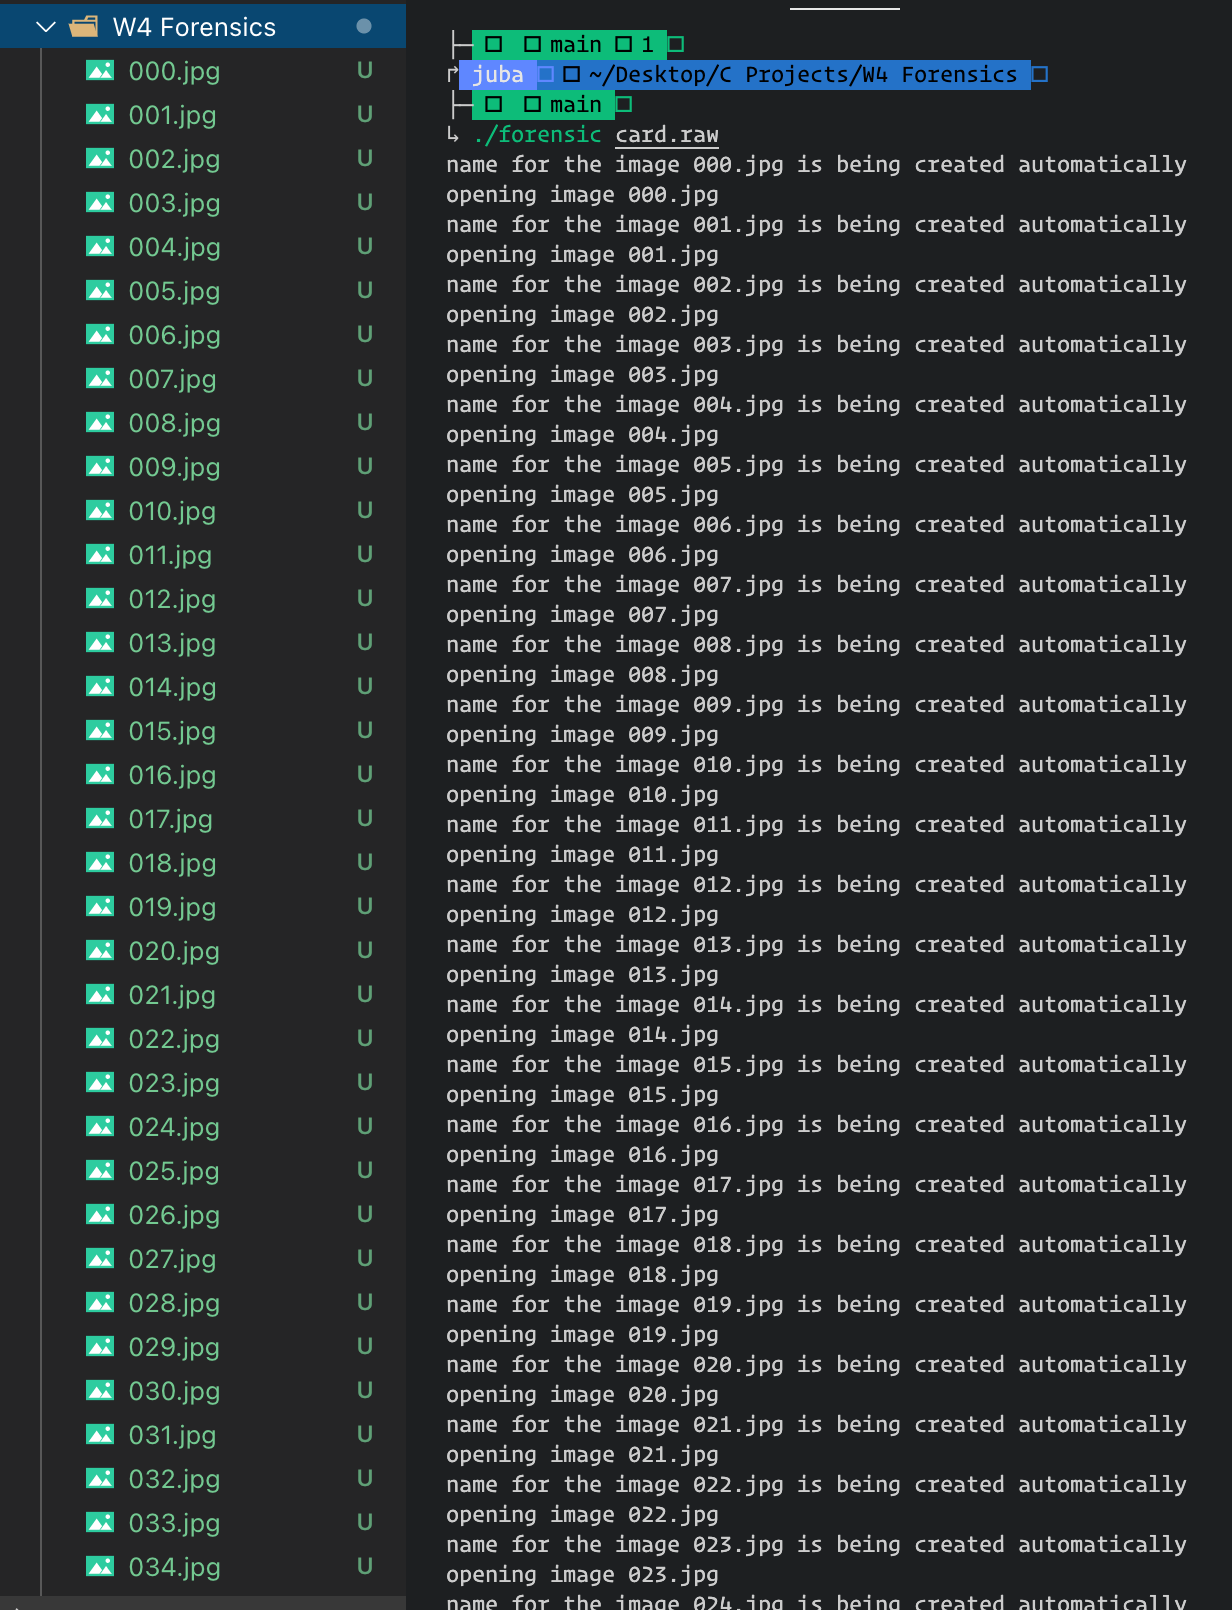
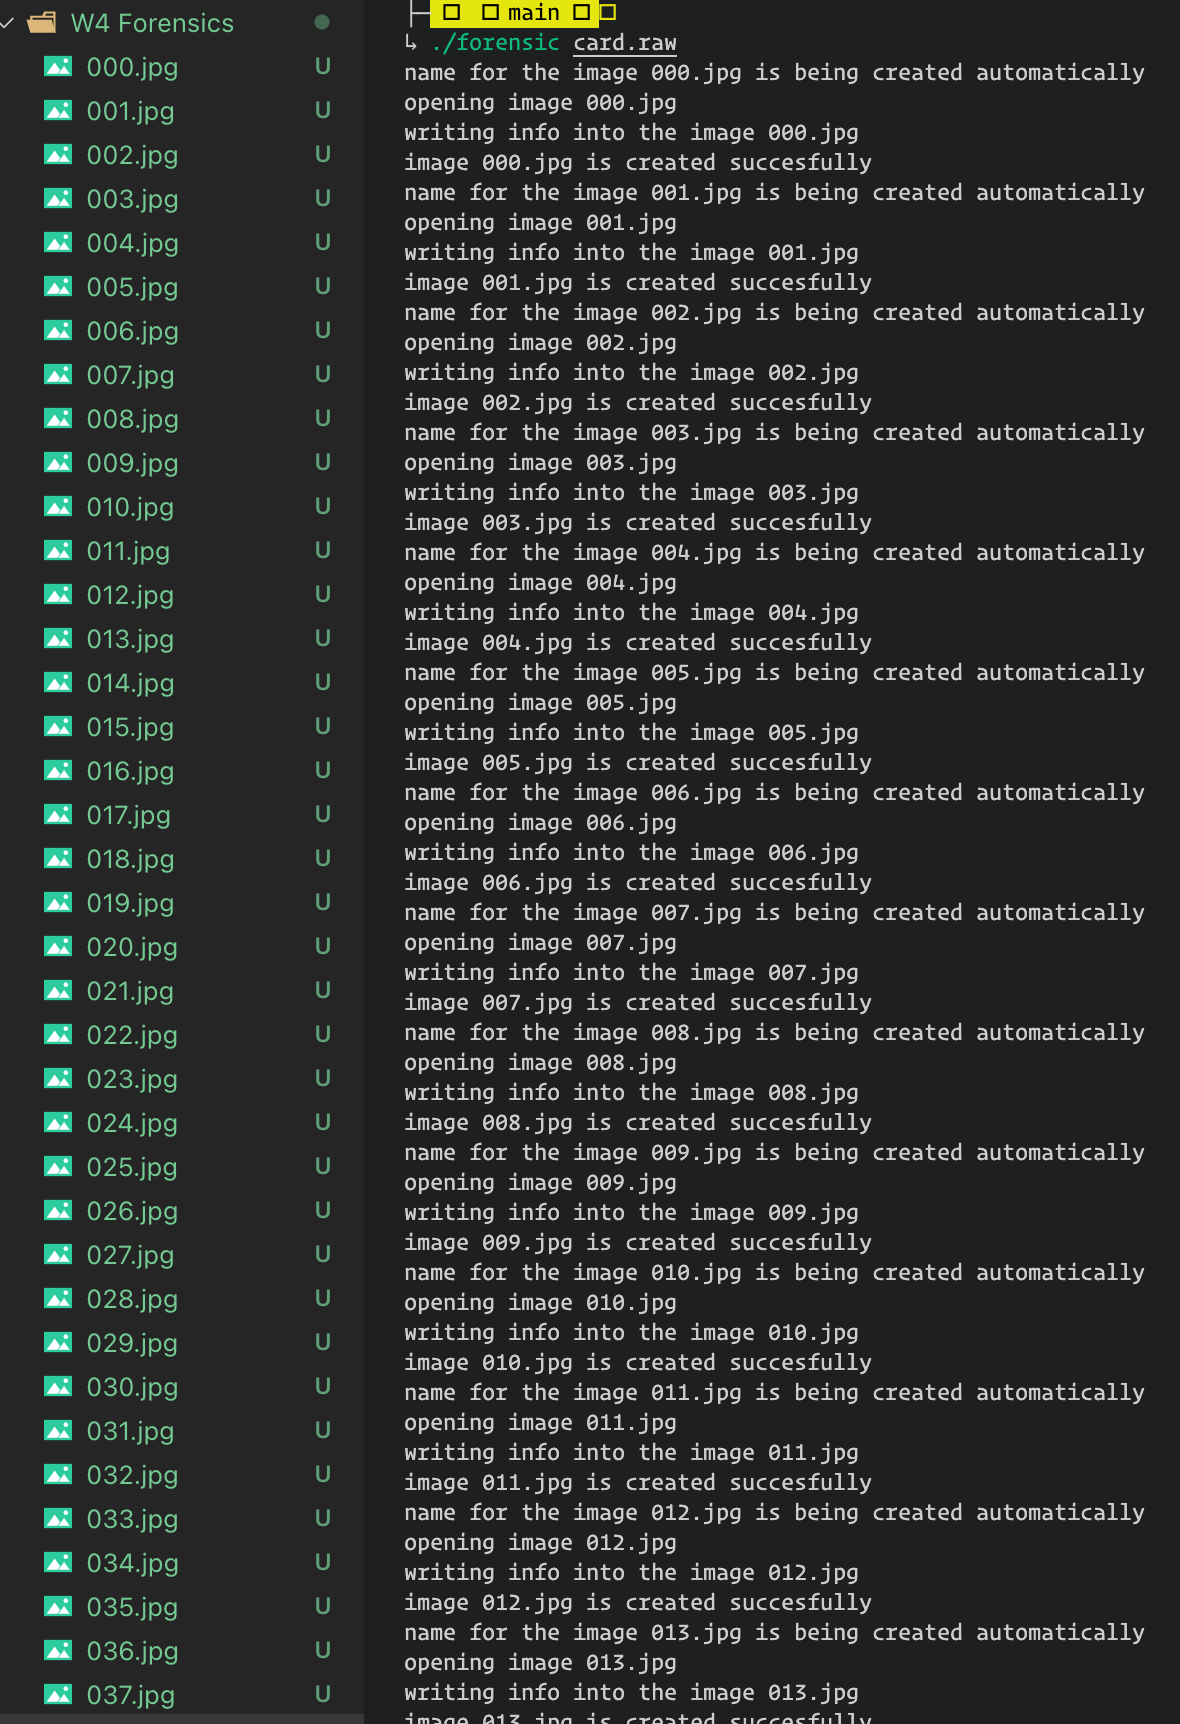
update readme again with new SS for foresics

Changed region(s): [[0.0, 0.0, 0.9763, 1.0]]

diff --git a/W4 Forensics/recover.c b/W4 Forensics/recover.c
@@ -57,6 +57,8 @@ while(fread(buff, 512, 1 ,forensic)){
         printf("name for the image %s is being created automatically\n",name);
         image = fopen(name,"w");  // open the image with the name in the write mode
         printf("opening image %s\n",name);
+        printf("writing info into the image %s\n",name);
+        printf("image %s is created succesfully\n",name);
 
 
         // but what if image is empty? i.e. could not allocate memory?
